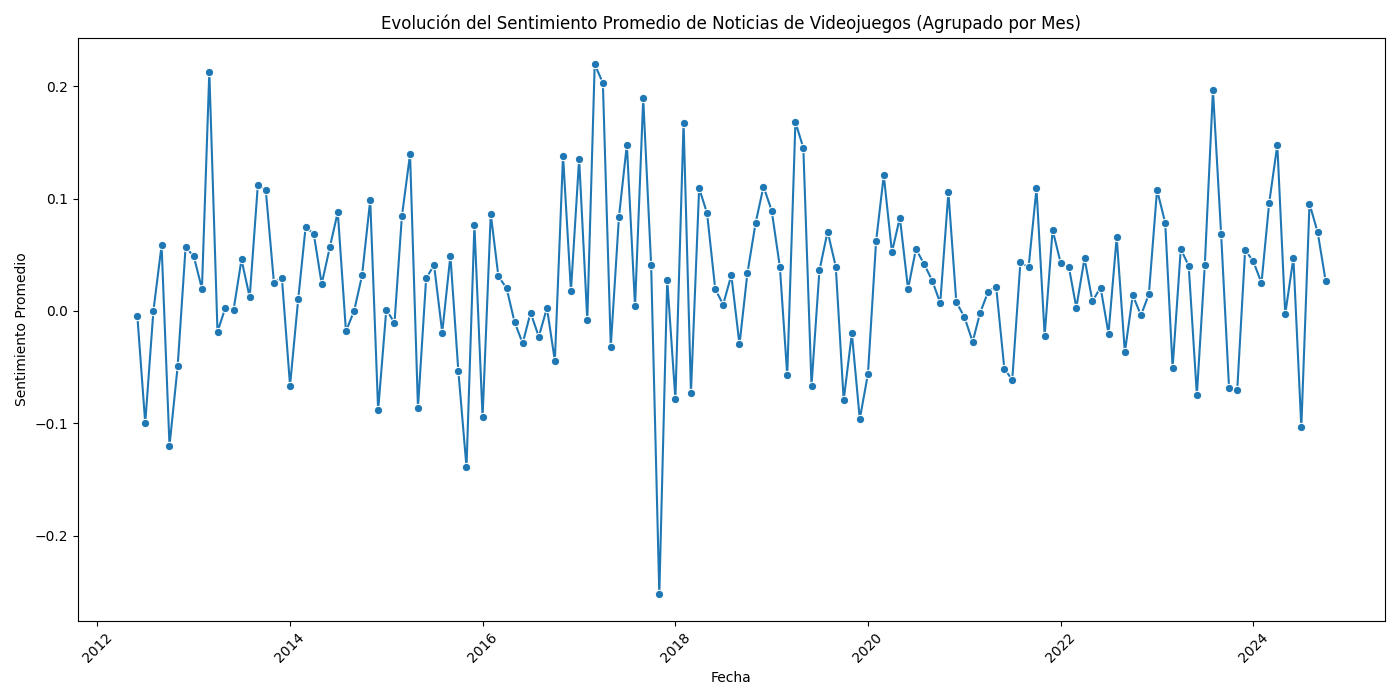
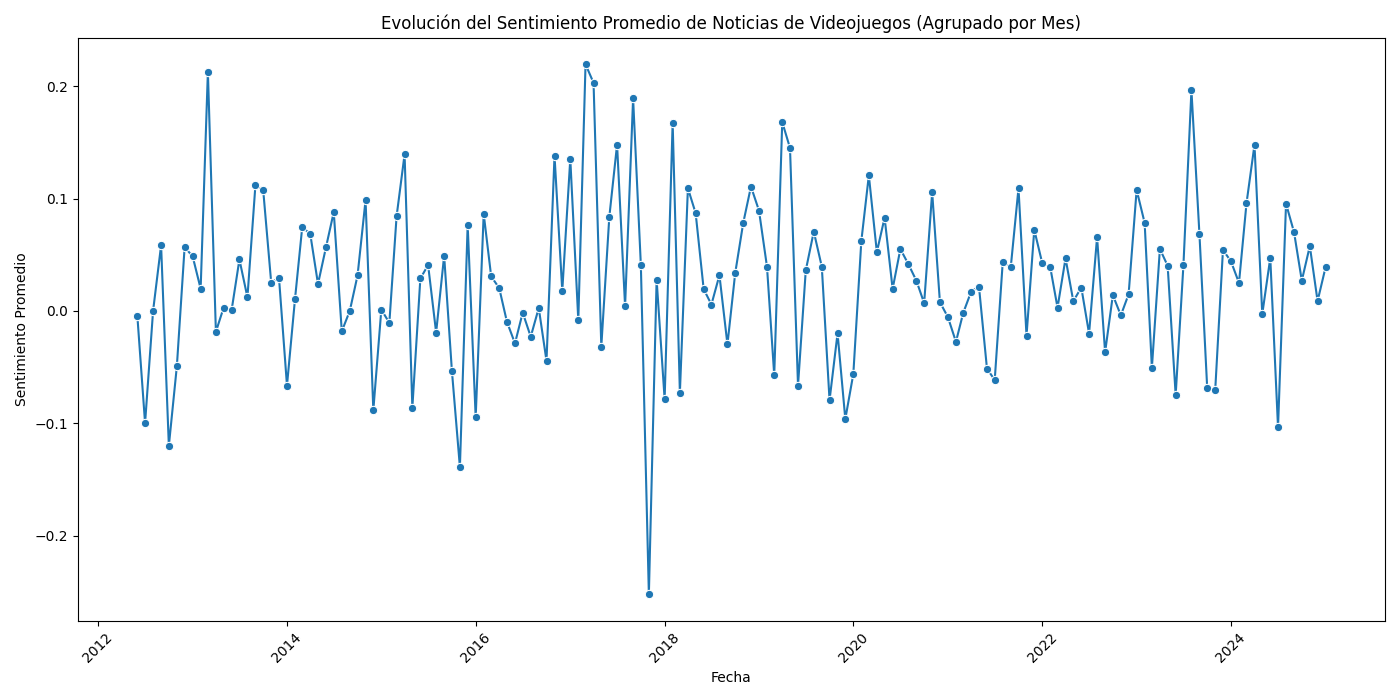
Corrigiendo timeout y actualización de datos

diff --git a/crawler/src/main/java/system/NewsCrawler.java b/crawler/src/main/java/system/NewsCrawler.java
@@ -32,14 +32,13 @@ public class NewsCrawler {
     String url = "https://www.lanacion.com.ar/tema/videojuegos-tid48572/";
     String csvFolder = "data/raw";
     String csvFile = "news.csv";
-    List<String[]> datosAlmacenados = new Vector<String[]>(1000, 1000);
+    List<String[]> datosAlmacenados = new Vector<>(1000, 1000);
     boolean existsFile = false;
     int cantNoticiasIniciales = 0;
-    int cantNoticiasFinales = 0;
-    Playwright playwright = Playwright.create();
-    Page pagina;
+    int cantNoticiasFinales;
 
-    try {
+    try (Playwright playwright = Playwright.create()) {
+      Page pagina;
       Path directory = Paths.get(csvFolder).toAbsolutePath().normalize();
       if (!Files.exists(directory)) {
         Files.createDirectories(directory);
@@ -54,7 +53,8 @@ public class NewsCrawler {
       } else {
         CSVReader leer = new CSVReader(new FileReader(filePath.toString()));
         datosAlmacenados = leer.readAll();
-        datosAlmacenados.removeFirst();
+        if (!datosAlmacenados.isEmpty())
+          datosAlmacenados.removeFirst();
         cantNoticiasIniciales = datosAlmacenados.size();
         leer.close();
         existsFile = true;
@@ -62,22 +62,21 @@ public class NewsCrawler {
       }
 
       // Preparar el archivo CSV para escritura
-      try (Browser navegador = playwright.chromium().launch(new BrowserType.LaunchOptions().setHeadless(true))) {
+      try (Browser navegador = playwright.chromium().launch()) {
         CSVWriter csvWriter = new CSVWriter(new FileWriter(filePath.toString()));
         pagina = navegador.newPage();
-        pagina.navigate(url);
-        List<String[]> datosNuevos = new Vector<String[]>(1000, 1000);
+        pagina.navigate(url,new Page.NavigateOptions().setTimeout(0));
 
-        String[] headers = { "titulo", "fecha", "link", "cuerpo" };
+        List<String[]> datosNuevos = new Vector<>(1000, 1000);
+
+        String[] headers = {"titulo", "fecha", "link", "cuerpo"};
         csvWriter.writeNext(headers);
         logger.info("Añadiendo los headers: '{}' al archivo {}", headers, csvFile);
 
-        int maxClicks = 1000;
         int clicks = 0;
-        boolean exist = true;
         Locator masNoticias = pagina.locator("button.com-button.--secondary");
-        while(masNoticias.isVisible()){
-          masNoticias.click();
+        while (masNoticias.isVisible()) {
+          masNoticias.click(new Locator.ClickOptions().setTimeout(0));
           logger.info("Haciendo clic en el botón 'Cargar más'. Click número: {}", clicks + 1);
           pagina.waitForTimeout(1000);
           clicks++;
@@ -92,61 +91,61 @@ public class NewsCrawler {
         Iterator<Element> articles = articlesGames.iterator();
         boolean parar = false;
         while (articles.hasNext() && !parar) {
-            Element article = articles.next();
-            if (article.select("span.badge.--sixxs.--arial.com-label.--exclusive-ln").isEmpty()) {
-                Elements txtLink = article.select("h2.com-title.--font-primary.--l.--font-medium a.com-link");
-                String link = "https://www.lanacion.com.ar" + txtLink.attr("href");
+          Element article = articles.next();
+          if (article.select("span.badge.--sixxs.--arial.com-label.--exclusive-ln").isEmpty()) {
+            Elements txtLink = article.select("h2.com-title.--font-primary.--l.--font-medium a.com-link");
+            String link = "https://www.lanacion.com.ar" + txtLink.attr("href");
 
-                logger.info("Noticia #{} - Entrando a la noticia del link {}", ++newsCount, link);
-                Document news = Jsoup.connect(link).get();
+            logger.info("Noticia #{} - Entrando a la noticia del link {}", ++newsCount, link);
+            Document news = Jsoup.connect(link).get();
 
-                String title = news.select("h1.com-title.--font-primary.--sixxl.--font-extra").text();
-                String fechaAFormatear = news.select("time.com-date").attr("datetime");
-                String cuerpo = news.select("p.com-paragraph.--s").text();
-                String[] fechaAFormatearA = fechaAFormatear.split(" de ");
+            String title = news.select("h1.com-title.--font-primary.--sixxl.--font-extra").text();
+            String fechaAFormatear = news.select("time.com-date").attr("datetime");
+            String cuerpo = news.select("p.com-paragraph.--s").text();
+            String[] fechaAFormatearA = fechaAFormatear.split(" de ");
 
-                if (fechaAFormatearA.length == 3) {
-                    String fechaFormateada = fechaAFormatearA[0] + "-" + fechaAFormatearA[1] + "-" + fechaAFormatearA[2];
+            if (fechaAFormatearA.length == 3) {
+              String fechaFormateada = fechaAFormatearA[0] + "-" + fechaAFormatearA[1] + "-" + fechaAFormatearA[2];
 
-                    try {
-                        LocalDate fecha = LocalDate.parse(fechaFormateada, formatter);
-                        String[] nuevaNoticia = { title, fecha.toString(), link, cuerpo };
+              try {
+                LocalDate fecha = LocalDate.parse(fechaFormateada, formatter);
+                String[] nuevaNoticia = {title, fecha.toString(), link, cuerpo};
 
-                        // Comparar con todas las noticias almacenadas
-                        boolean noticiaDuplicada = datosAlmacenados.stream().anyMatch(noticia -> igual(noticia, nuevaNoticia));
+                // Comparar con todas las noticias almacenadas
+                boolean noticiaDuplicada = datosAlmacenados.stream().anyMatch(noticia -> igual(noticia, nuevaNoticia));
 
-                        if (!noticiaDuplicada) {
-                            // Añadir la noticia a la lista de nuevas noticias
-                            datosNuevos.add(nuevaNoticia);
-                        } else {
-                            logger.info("Noticia duplicada, se ya se obtuvieron todas las noticias nuevas, deteniendo el scraping.");
-                            parar = true;  // Detener al encontrar una noticia ya existente
-                        }
-
-                    } catch (DateTimeParseException e) {
-                        logger.error("Error al parsear la fecha: {}", e.getMessage());
-                    }
+                if (!noticiaDuplicada) {
+                  // Añadir la noticia a la lista de nuevas noticias
+                  datosNuevos.add(nuevaNoticia);
                 } else {
-                    logger.warn("Formato de fecha inesperado: {}", fechaAFormatear);
+                  logger.info("Noticia duplicada, se ya se obtuvieron todas las noticias nuevas, deteniendo el scraping.");
+                  parar = true;  // Detener al encontrar una noticia ya existente
                 }
+
+              } catch (DateTimeParseException e) {
+                logger.error("Error al parsear la fecha: {}", e.getMessage());
+              }
             } else {
-                logger.info("Se detectó una noticia exclusiva para miembros. Se saltea la noticia.");
+              logger.warn("Formato de fecha inesperado: {}", fechaAFormatear);
             }
+          } else {
+            logger.info("Se detectó una noticia exclusiva para miembros. Se saltea la noticia.");
+          }
         }
 
         // Guardar las noticias recolectadas
         logger.info("Añadiendo todas las noticias obtenidas al archivo");
 
         if (existsFile) {
-            // Insertar nuevas noticias al principio de los datos almacenados
-            datosAlmacenados.addAll(0, datosNuevos);  // Añadir al inicio de la lista de noticias almacenadas
-            csvWriter.writeAll(datosAlmacenados);     // Guardar todo en el archivo
-            cantNoticiasFinales = datosAlmacenados.size();
+          // Insertar nuevas noticias al principio de los datos almacenados
+          datosAlmacenados.addAll(0, datosNuevos);  // Añadir al inicio de la lista de noticias almacenadas
+          csvWriter.writeAll(datosAlmacenados);     // Guardar todo en el archivo
+          cantNoticiasFinales = datosAlmacenados.size();
         } else {
-            csvWriter.writeAll(datosNuevos);  // Si no existe archivo previo, escribir solo las nuevas noticias
-            cantNoticiasFinales = datosNuevos.size();
+          csvWriter.writeAll(datosNuevos);  // Si no existe archivo previo, escribir solo las nuevas noticias
+          cantNoticiasFinales = datosNuevos.size();
         }
-
+        csvWriter.close();
         logger.info("Cantidad de noticias al inicio: {}", cantNoticiasIniciales);
         logger.info("Cantidad de noticias después del crawling: {}", cantNoticiasFinales);
 
